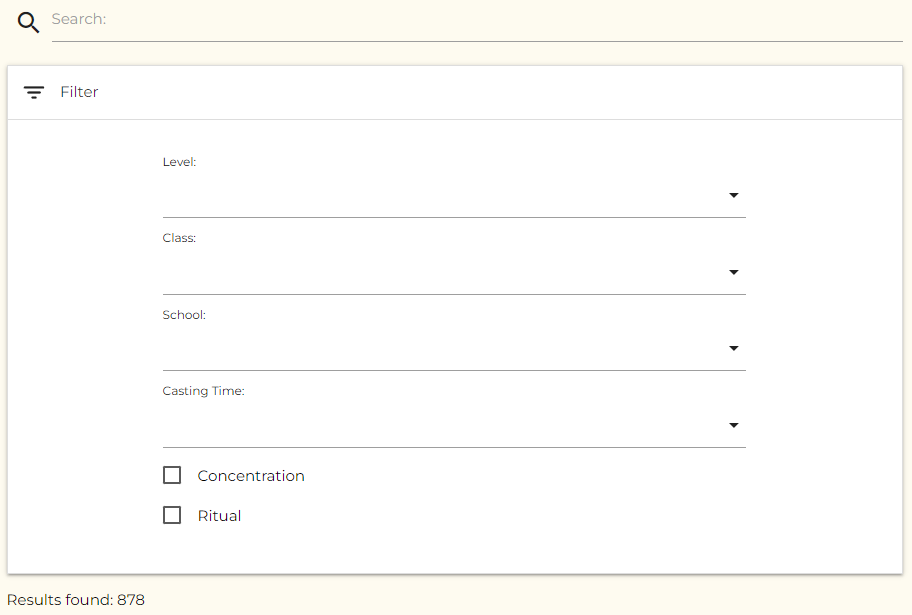
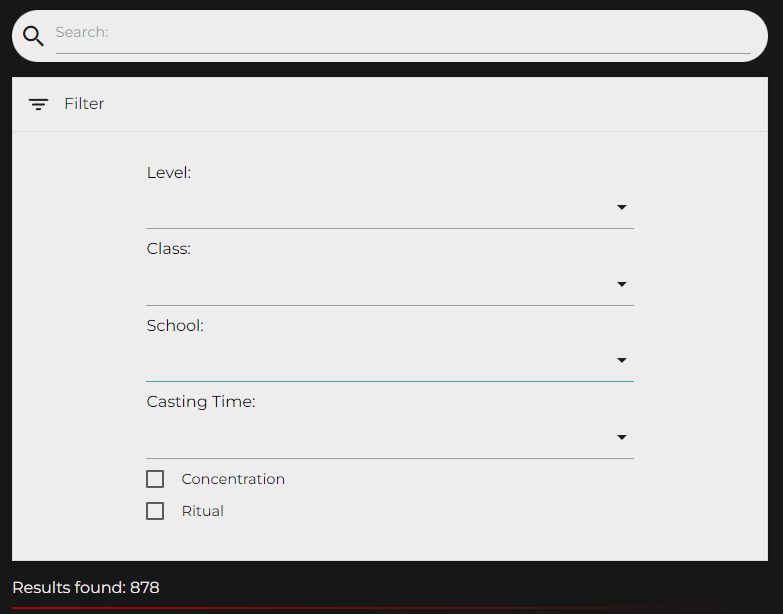
Docs: Expand About section and complete the Features and Credits sections.

diff --git a/README.md b/README.md
@@ -9,8 +9,12 @@
 - [Yggdramor](#yggdramor)
   - [**Table of contents**](#table-of-contents)
   - [**About**](#about)
+  - [**Design**](#design)
   - [**Features**](#features)
+    - [Navigation](#navigation)
+    - [Pagination](#pagination)
     - [Spells](#spells)
+    - [Other pages](#other-pages)
   - [**Credits**](#credits)
     - [API](#api)
     - [Technologies used](#technologies-used)
@@ -19,11 +23,45 @@
 
 ## **About**
 
-This site is a TTRPG aid created for dungeons and dragons 5th edition. Looking for a 5th level ritual spell that can be used by your warlock? Need to know what wizard spells are enchantment or illusion and of 4th level and bellow for your arcane trickster rouge? Complex filtering through spells can be tricky or impossible with some of the tools out there, so I decided to make my own. Filter by spell level, caster class, spell school and casting time as well as by concentration and ritual tags.
+This site is a TTRPG aid created for Dungeons and Dragons 5th edition. This little project started off as an excuse to practice coding in React and to address some of the problems my D&D group and I have had with other spell-searching apps; Namely that they often fall short when it comes to more complex filtering. If you're just looking for all of the wizard spells then you're probably fine, but if you've ever played a spell thief rouge and needed to find all the wizard spells that are from either the enchantment or illusion schools AND between levels 1 and 4 then you probably know it's a bit of a pain. Even just figuring out if there are any good ritual spells for your class at your new level can sometimes be a challenge.
 
-Also includes pages for conditions and character feats.
+Also includes pages for conditions, character feats and Monsters.
+
+## **Design**
+
+This site uses a dark theme with a single bright red accent colour in keeping with D&Ds themes. The high contrast this provides aims to make navigating and reading the pages easy.
+
+<p align="center">
+    <img src="./public/images/yggdramor-colour-scheme.PNG" width="500px">
+</p>
 
 ## **Features**
+
+### Navigation
+
+- The Landing/Home page consists of links to each of the information pages.
+
+<p align="center">
+    <img src="./public/images/home-nav.PNG" width="200px">
+</p>
+
+- Each of the information pages contains a quick nav section for traversal between pages without first returning to the Landing page.
+
+<p align="center">
+    <img src="./public/images/nav-closed.PNG" width="100px">
+</p>
+
+<p align="center">
+    <img src="./public/images/nav-open.PNG" width="100px">
+</p>
+
+### Pagination
+
+Any of the information pages that displays more than 100 results (adaptive to current search) splits the results into pages which can then be traversed via a navigational element at the bottom of the page.
+
+<p align="center">
+    <img src="./public/images/pagination.PNG" width="500px">
+</p>
 
 ### Spells
 
@@ -34,13 +72,13 @@ The primary feature of this site is the spell search/filter system which can be 
 - The number of spells matching the current search is shows at the bottom of this section and will update live along with the displayed spells.
 
 <p align="center">
-    <img src="./public/images/spell-search.PNG" width="500px">
+    <img src="./public/images/spell-search.PNG" width="400px">
 </p>
 
 All spells are displayed in a list (30 to a page). Each item contains an icon to represent the spells school, name and level.
 
 <p align="center">
-    <img src="./public/images/spell-list.PNG" width="500px">
+    <img src="./public/images/spell-list.PNG" width="400px">
 </p>
 
 Clicking on one of these items will expand the selection displaying further spell details. These include
@@ -57,8 +95,14 @@ Clicking on one of these items will expand the selection displaying further spel
 - Information source
 
 <p align="center">
-    <img src="./public/images/expanded-spell.PNG" width="500px">
+    <img src="./public/images/expanded-spell.PNG" width="400px">
 </p>
+
+### Other pages
+
+The conditions, feats and monsters pages follow a similar format to the spells page, with search/filter functionality at the top followed by the number of matching results and finally expandible sections to display the individual items.
+
+The About page contains a short description of the site and it's creation, credits and legal information.
 
 ## **Credits**
 
@@ -70,15 +114,18 @@ Clicking on one of these items will expand the selection displaying further spel
 
 ### Technologies used
 
-- React
-- React Router
-- React Icons
-- Netlify
-- Materialize
+- [React](https://reactjs.org/)
+- [React Router](https://reactrouter.com/en/main)
+- [React Icons](https://react-icons.github.io/react-icons/)
+- [Netlify](https://www.netlify.com/)
+- [Materialize](https://materializecss.com/)
+- [Axios](https://axios-http.com/)
 
 ### Media
 
 Logo and favicon where created by me using Dall E and edited using Adobe Photoshop.
+
+Fonts are courtesy of [Google Fonts](https://developers.google.com/fonts).
 
 ### Help and Info
 
